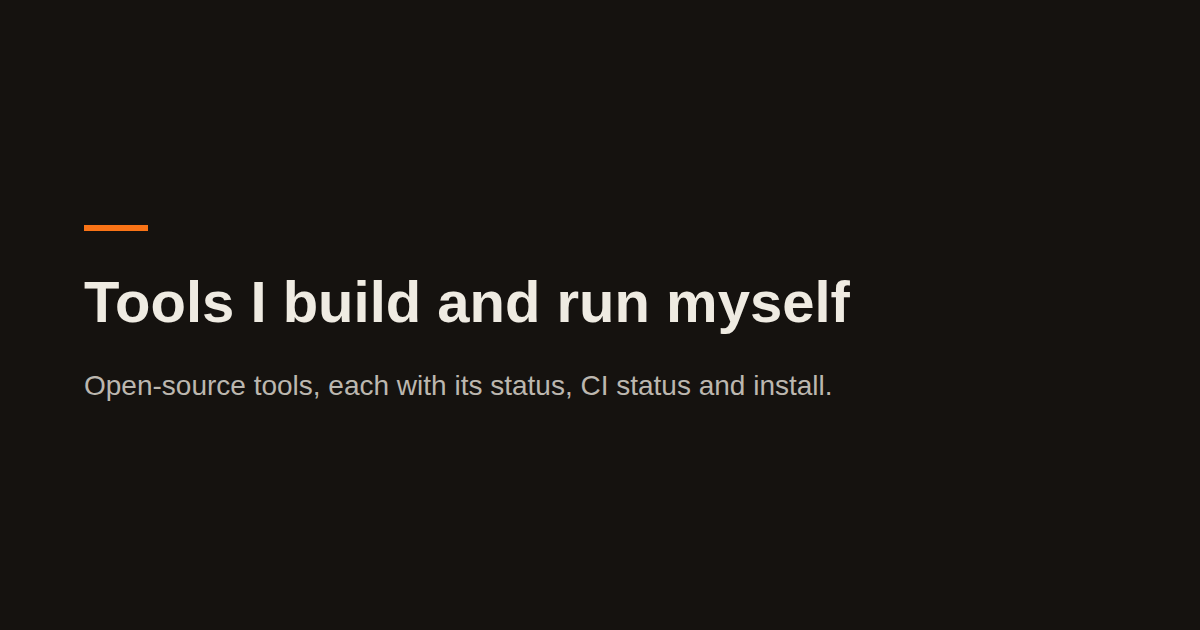
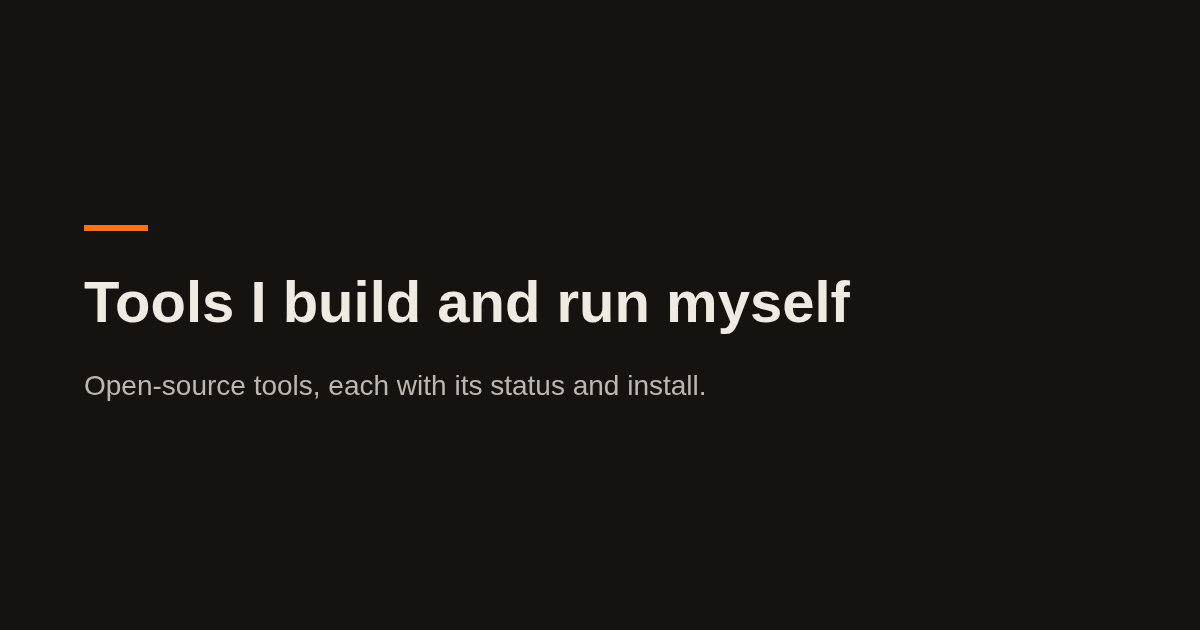
fix(tools): wording and doc lines that drifted (#678)
* chore: claim #512

* fix(tools): align drifted wording with the READMEs

---------

Changed region(s): [[0.0617, 0.6032, 0.7092, 0.6333]]

diff --git a/lib/tools.ts b/lib/tools.ts
@@ -347,7 +347,7 @@ export const tools: Tool[] = [
     name: "mig",
     job: "tiny self-hosted meeting scheduler",
     summary:
-      "миг (moment) — tiny self-hosted meeting scheduler, built on web standards. One owner, one URL, one feature: book a time slot. Runs as a single Deno binary, with JSON-file storage, SMTP for confirmations with ICS attachment, SHA-256 HMAC for cancellable links, timezone-aware. Built because Calendly alternatives are heavyweight — I needed a static meeting link without a Next.js + Postgres deployment.",
+      "миг (moment) — tiny self-hosted meeting scheduler, built on web standards. One owner, one link, no database: book a time slot. Runs as a single Deno binary, with JSON-file storage, SMTP for confirmations with ICS attachment, SHA-256 HMAC for cancellable links, timezone-aware. Built because Calendly alternatives are heavyweight — I needed a booking link without a Calendly subscription or a cal.com stack of Postgres and Redis to run.",
     kind: "service",
     status: "in-use",
     group: "tools",
@@ -440,8 +440,8 @@ export const tools: Tool[] = [
   },
   {
     slug: "zond",
-    name: "Zond",
-    pageTitle: "Zond: health probe bridge for services behind SSO proxies",
+    name: "zond",
+    pageTitle: "zond: health probe bridge for services behind SSO proxies",
     job: "internal health probe bridge for services behind SSO proxies",
     summary:
       "Internal health probe bridge for services behind SSO proxies. Originally Deno+TS, rewritten to Go as a single 10 MB distroless binary. Sits beside the containers on the same Docker network and probes them directly, so Gatus and other monitoring tools that lack SSO support can still check services behind Authelia.",
@@ -518,7 +518,7 @@ export const tools: Tool[] = [
     clip: {
       title: "oko: add a service to config.json, reload, search the dashboard",
       caption:
-        "A demo dashboard of Jane Doe's servers: paste a new service into config.json, reload to see its card with no restart, filter with /, and read the down and unknown cards. 44\u00a0s, with captions and music.",
+        "44\u00a0s, with captions and music: a demo dashboard of Jane Doe's servers, where you paste a new service into config.json, reload to see its card with no restart, filter with /, and read the down and unknown cards.",
       poster: {
         src: "/video/tools/oko/poster.webp",
         srcset:
@@ -562,7 +562,7 @@ export const tools: Tool[] = [
     clip: {
       title: "caldav-mcp: an assistant answers what is on today's task list",
       caption:
-        "51 s · with captions and music · a real exchange with a demo calendar",
+        "51\u00a0s, with captions and music: a real exchange between an assistant and a demo calendar, answering what is on today's task list.",
       poster: {
         src: "/video/tools/caldav-mcp/poster.webp",
         srcset:
@@ -649,7 +649,7 @@ export const tools: Tool[] = [
     },
     licence: "MIT",
     runtime:
-      "Deno on the server; @spy4x/time, @spy4x/validation, @spy4x/platform's browser entry points and @spy4x/realtime's client run in a browser, untested there",
+      "Deno on the server; @spy4x/time, @spy4x/validation and @spy4x/caldav use no Deno.* API, so they also run in a browser, untested there",
     usedFor:
       "Seed, my SaaS starter, imports nine of these packages; mig, my meeting scheduler, and this site import six each.",
     proofLinks: [
@@ -694,7 +694,7 @@ export const tools: Tool[] = [
     clip: {
       title: "ts-libs: time zones, money and form input",
       caption:
-        "Three packages, run for real: one meeting shown in each person's own time zone, money kept in whole cents with each currency's decimals, and what a user typed checked against a schema, with one plain message per field.",
+        "52\u00a0s, with captions and music: three packages run for real, with one meeting shown in each person's own time zone, money kept in whole cents with each currency's decimals, and what a user typed checked against a schema, with one plain message per field.",
       poster: {
         src: "/video/tools/ts-libs/poster.webp",
         alt:
@@ -772,7 +772,7 @@ export const tools: Tool[] = [
     clip: {
       title: "A tour of the preact-components live guide",
       caption:
-        "The live guide: Orbit, a dashboard built only from the library, a filter on its table, light and dark, the accent colour, / to search, arrow keys between tabs, and a component's code to copy.",
+        "1\u00a0min, with captions and music: the live guide, with Orbit, a dashboard built only from the library, a filter on its table, light and dark, the accent colour, / to search, arrow keys between tabs, and a component's code to copy.",
       poster: {
         src: "/video/tools/preact-components/poster.webp",
         srcset:
@@ -836,7 +836,7 @@ export const tools: Tool[] = [
     clip: {
       title: "Keeping three AI harnesses in sync",
       caption:
-        "One folder of rules rendered for Claude Code, OpenCode and DSH: a one-line edit reaches all three, a hand edit to one copy fails the check, and deno task ai puts it back in sync.",
+        "58\u00a0s, with captions and music: one folder of rules rendered for Claude Code, OpenCode and DSH, where a one-line edit reaches all three, a hand edit to one copy fails the check, and deno task ai puts it back in sync.",
       poster: {
         src: "/video/tools/dotfiles/poster.webp",
         srcset:
@@ -849,7 +849,7 @@ export const tools: Tool[] = [
       video: { duration: "PT58S", uploadDate: "2026-10-21" },
     },
     quickStart: {
-      label: "Compare your harnesses with mine (writes nothing)",
+      label: "Compare your harnesses with mine (needs Deno, writes nothing)",
       command:
         "git clone https://github.com/spy4x/dotfiles && cd dotfiles && deno task ai --check",
     },
@@ -1279,7 +1279,7 @@ export const tools: Tool[] = [
       title:
         "caldav-tasks-web: quick add, subtasks, a repeating task, complete and undo",
       caption:
-        "1 min 2 s · with captions and music · demo tasks on a local Radicale",
+        "1\u00a0min 2\u00a0s, with captions and music: demo tasks on a local Radicale, with a quick add, subtasks, a repeating task, and a task completed and undone.",
       poster: {
         src: "/video/tools/caldav-tasks-web/poster.webp",
         srcset:

diff --git a/lib/video-sources.test.ts b/lib/video-sources.test.ts
@@ -35,6 +35,20 @@ Deno.test("no tool clip is described as silent", () => {
   }
 })
 
+Deno.test("every clip caption starts with its length and says captions and music", () => {
+  for (const tool of tools.filter((t) => t.clip)) {
+    const { caption, video } = tool.clip!
+    assert(video, `${tool.slug} has no video length`)
+    const [, m, s] = video.duration.match(/^PT(?:(\d+)M)?(?:(\d+)S)?$/)!
+    const length = [m && `${m} min`, s && `${s} s`]
+      .filter(Boolean).join(" ")
+    assert(
+      caption.startsWith(`${length}, with captions and music: `),
+      `${tool.slug}: "${caption}"`,
+    )
+  }
+})
+
 Deno.test("rawUrl reads a file at the pinned commit", () => {
   const source = VIDEO_SOURCES.find((s) => s.slug === "mig")!
   assertEquals(

diff --git a/components/tools/rostok/RostokCatalog.tsx b/components/tools/rostok/RostokCatalog.tsx
@@ -64,11 +64,6 @@ function Stack({ stack }: { stack: RostokStack }) {
         </p>
         <p class="text-graphite">
           Secrets: <Keys keys={stack.secret} />
-          {stack.secret.length > 0 && (
-            <span class="block mt-1">
-              Encrypted into <code>.env.age</code>, so the repo is safe to push.
-            </span>
-          )}
         </p>
         <div class="flex items-center gap-3 rounded-lg border border-rule bg-ink py-2 pl-3 pr-3">
           <code id={id} class="min-w-0 flex-1 text-parchment">

diff --git a/test/tools/caldav-mcp.test.ts b/test/tools/caldav-mcp.test.ts
@@ -114,7 +114,7 @@ Deno.test("the caldav-mcp page renders the frame, the 13 tool rows with their No
     // The clip's caption says it has captions and music and is a real exchange.
     assert(
       visibleText(page).includes(
-        "with captions and music · a real exchange with a demo calendar",
+        "with captions and music: a real exchange between an assistant and a demo calendar",
       ),
       "clip caption",
     )

diff --git a/test/tools/caldav-tasks-web.test.ts b/test/tools/caldav-tasks-web.test.ts
@@ -90,7 +90,7 @@ Deno.test("the caldav-tasks-web page renders the frame, five field chips with Ti
     }
     assert(
       text.includes(
-        "1 min 2 s · with captions and music · demo tasks on a local Radicale",
+        "with captions and music: demo tasks on a local Radicale",
       ),
       "clip caption",
     )

diff --git a/scripts/og-images.ts b/scripts/og-images.ts
@@ -282,7 +282,7 @@ async function main() {
       browser,
       cardHtml(
         "Tools I build and run myself",
-        "Open-source tools, each with its status, CI status and install.",
+        "Open-source tools, each with its status and install.",
       ),
       new URL("tools.png", OG_DIR),
     )

diff --git a/docs/images.md b/docs/images.md
@@ -38,16 +38,11 @@ so a 2500px shot lagged. `deno task optimize:screenshots` scales PNG sources and
 oversized WebP-only files down to it, and `test/screenshot-width.test.ts` fails
 on a wider one.
 
-The caldav-tasks-web screenshots in `static/img/tools/caldav-tasks-web/` come
-from one command, `deno task reshoot:caldav` (#223): it clones the app, starts a
-throwaway Radicale container, seeds generic demo tasks, takes the pictures with
-the pinned Chromium, runs the optimizer and the metadata strip, and removes the
-container, the app process and its temp directory even when it fails. The
-screenshot list, viewports and demo data are the table at the top of
-`scripts/reshoot-caldav-demo-plan.ts`; `--shots`, `--viewport` and `--scale`
-change a run; `--app <dir>` clones that directory's committed HEAD, not its
-working tree. It needs Docker, so it is not part of `deno task check`. A brief
-that asks for new screenshots of a project names every screenshot in that
+No page shows the screenshots in `static/img/tools/caldav-tasks-web/` since
+#474, when the caldav-tasks-web page switched to its clip. They and the command
+that took them, `deno task reshoot:caldav` (`scripts/reshoot-caldav-demo*.ts`),
+are left over from the old page until #511 removes them; do not build on them. A
+brief that asks for new screenshots of a project names every screenshot in that
 project's folder, not only the ones the issue mentions, so the environment is
 built once.
 

diff --git a/docs/analytics.md b/docs/analytics.md
@@ -198,9 +198,9 @@ This file holds the event names and properties and the saved reports
 (`islands/ToolHeroClip.tsx`, `islands/HomeVideo.tsx`, `islands/ToolZoom.tsx`),
 never as `data-umami-event` attributes on the clip's play link: Umami's tracker
 answers a click on a tracked `<a href>` by cancelling it and then opening the
-href, which for the play link is the video file. A `tool-try` on a `<label>`,
-`<summary>` or `<button>` may use `eventAttrs()`; on a link that must not
-navigate, use `track()`.
+href, which for the play link is the video file. A `tool-try` on a `<summary>`
+or `<button>` may use `eventAttrs()` (on a radio, never its label: see below);
+on a link that must not navigate, use `track()`.
 
 ## Tool pages
 

diff --git a/content/blog/preact-component-library-without-shadcn.md b/content/blog/preact-component-library-without-shadcn.md
@@ -149,7 +149,7 @@ The guide's overview counts 81 components and 120 icons across them today.
 ## Where it came from
 
 The components were extracted from real products, so I stop rebuilding the same
-pieces for the next one. My [SaaS template](/blog/seed-saas-starter) already
+pieces for the next one. My SaaS starter [Seed](/blog/seed-saas-starter) already
 builds its signed-in layout on `Shell` from `@spy4x/preact-system` and its
 styles on `@spy4x/preact-theme`. This site is next: it still has its own
 components, and replacing them with the library is an open issue.
